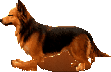
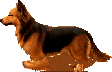
Raya: Lauf-Frames und liegende Pose aus Photoshop
Claude-Session: https://claude.ai/code/session_01QePyTZKckV5D78KCRfW8MK

diff --git a/raya/sw.js b/raya/sw.js
@@ -1,5 +1,5 @@
 // Raya – Offline-Cache: erst Netz (immer aktuell), bei fehlender Verbindung aus dem Cache
-const V = 'raya-v5';
+const V = 'raya-v6';
 const ASSETS = ['./', 'index.html', 'style.css', 'sprites.js', 'game.js', 'manifest.webmanifest',
   'icon-192.png', 'icon-512.png', 'vt323.woff2', 'press-start-2p.woff2',
   'raya-sit.png', 'raya-sit34.png', 'raya-stand.png', 'raya-side.png', 'raya-side-small.png',
